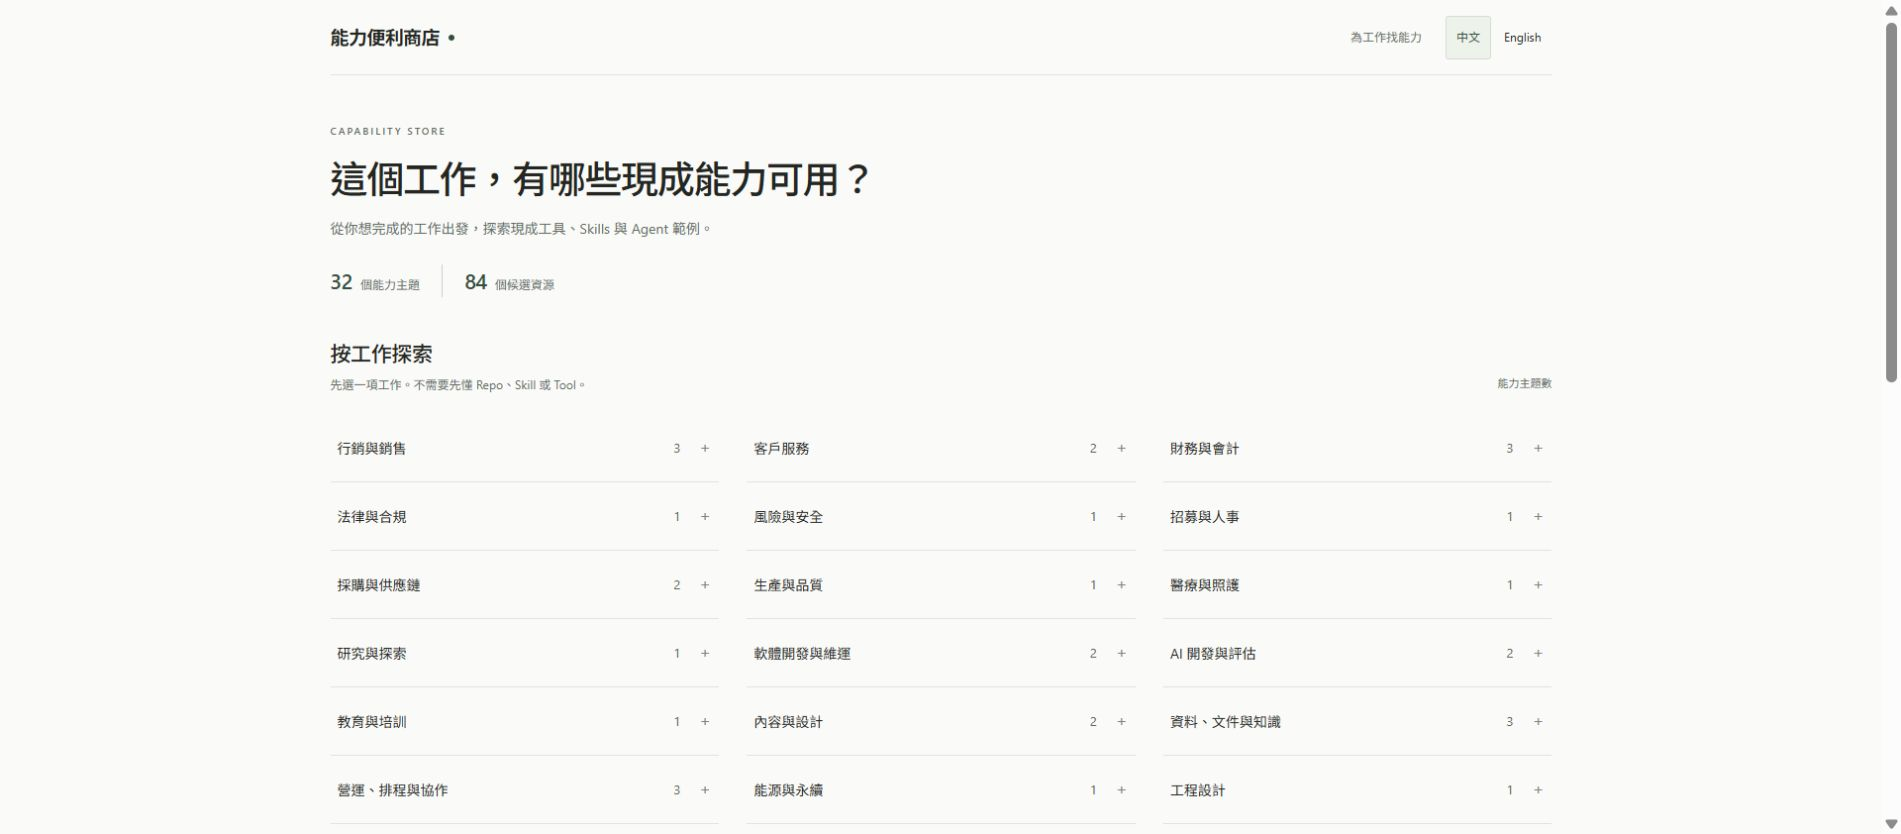
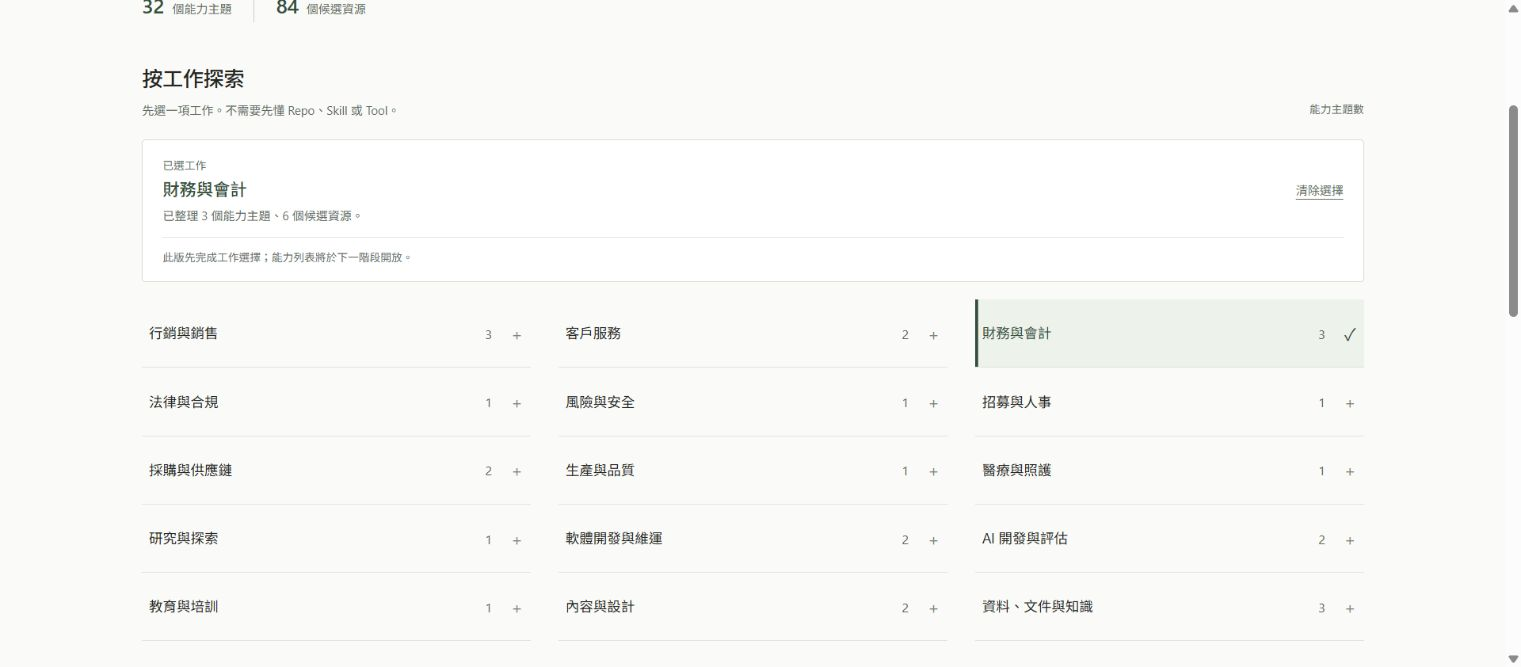
Record successful Layer 1 publication and browser verification

diff --git a/docs/progress.md b/docs/progress.md
@@ -11,7 +11,7 @@
 
 驗證：4 項 Node 檢查通過（真實分類計數、重複資源計數、分享網址狀態、未知分類）；建置成功。Chrome 桌面與 375px 手機尺寸，中文／英文、工作選擇／清除／返回／重整、Trending 5↔15 及外部連結屬性已檢查，未見橫向溢出或 console error。按鈕觸控區至少 44px。首次本機預覽在一般執行環境無法連線，改用獲准的本機預覽後完成檢查。
 
-GitHub Pages 工作流程已加入，網站預期網址為 https://vcstseng.github.io/capability-store/；實際發布結果接續記錄。
+GitHub Pages 已發布：[能力便利商店](https://vcstseng.github.io/capability-store/)。網站版本 commit：`b907398`；[發布執行 41832736396](https://github.com/vcstseng/capability-store/actions/runs/41832736396) 已成功。公開網址已實際載入，19 個工作入口、32／84 總數、Trending 預設 5 筆及選取切換皆正常；原始候選資料未被更動。程式、docs 與驗證紀錄已同步公開 repo。
 
 下一步先 review Layer 1，再討論 Layer 2。能力深化 review、替換與個別資源驗證之後再做。
 

diff --git a/README.md b/README.md
@@ -2,6 +2,7 @@
 
 按工作探索現成工具、Skills 與 Agent 範例的中英文 prototype，延續 Startup Radar 的極簡風格。
 
+- [開啟網站 / Open website](https://vcstseng.github.io/capability-store/)
 - [GitHub Repository](https://github.com/vcstseng/capability-store)
 - [能力資料 review](docs/prototype-review.md) · [Trending 快照](docs/trending-review.md) · [進度](docs/progress.md)
 - 資料：32 個能力主題、84 個候選資源；另有 15 筆 Trending 週榜快照。已整理不代表已安裝、測試或適用性驗證。
